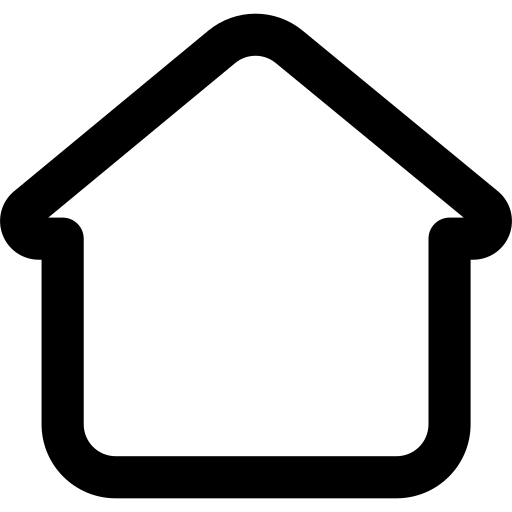
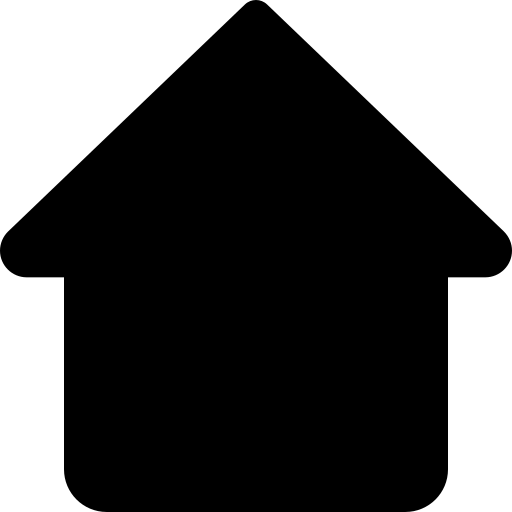
dock added

diff --git a/src/renderer/components/Dock.jsx b/src/renderer/components/Dock.jsx
@@ -3,14 +3,42 @@ import houseIcon from '../../assets/home.png'
 import dictionaryIcon from '../../assets/dictionary.png'
 import treeIcon from '../../assets/decision-tree-image.png'
 import cenarioIcon from '../../assets/cenario.png'
+import { useNavigate } from "react-router-dom";
 
 function Dock() {
+  const navigate = useNavigate();
+
+  const handleClickDock = () => {
+    console.log("asd")
+    navigate(`/dictionary`);
+  };
+
   return (
-    <div className='flex flex-row justify-around absolute bottom-0 z-50 left-1/2 transform -translate-x-1/2 -translate-y-1/2 right- w-[20%] h-[8%] bg-background-green-200 rounded-lg p-2 border items-center'>
-        <img src={houseIcon} alt="" className='w-10 h-10 p-2 hover:bg-background-green-400 duration-100 ease-in rounded-lg cursor-pointer'/>
-        <img src={dictionaryIcon} alt="" className='w-10 h-10 p-2 hover:bg-background-green-400 duration-100 ease-in rounded-lg cursor-pointer'/>
-        <img src={treeIcon} alt="" className='w-10 h-10 p-2 hover:bg-background-green-400 duration-100 ease-in rounded-lg cursor-pointer'/>
-        <img src={cenarioIcon} alt="" className='w-10 h-10 p-2 hover:bg-background-green-400 duration-100 ease-in rounded-lg cursor-pointer'/>
+    <div className='flex flex-row justify-around absolute bottom-0 z-50 left-1/2 transform -translate-x-1/2 -translate-y-1/2 right- w-[17%] h-[8%] bg-background-green-200 rounded-lg p-2 border items-center'>
+        <div
+        className='w-10 h-10 p-2 hover:bg-background-green-400 duration-100 ease-in rounded-lg cursor-pointer'
+        onClick={handleClickDock}>
+          <img src={houseIcon} alt=""/>
+        </div>
+        
+        <div 
+        className='w-10 h-10 p-2 hover:bg-background-green-400 duration-100 ease-in rounded-lg cursor-pointer'
+        onClick={handleClickDock}>
+          <img src={dictionaryIcon} alt="" />
+        </div>
+        
+        <div 
+        className='w-10 h-10 p-2 hover:bg-background-green-400 duration-100 ease-in rounded-lg cursor-pointer'
+        onClick={handleClickDock}>
+          <img src={treeIcon} alt="" />
+        </div>
+        
+        <div
+        className='w-10 h-10 p-2 hover:bg-background-green-400 duration-100 ease-in rounded-lg cursor-pointer'
+        onClick={handleClickDock}>
+          <img src={cenarioIcon} alt=""/>
+        </div>
+        
     </div>
   )
 }

diff --git a/src/renderer/components/homePageComponents/Sidebar.tsx b/src/renderer/components/homePageComponents/Sidebar.tsx
@@ -2,27 +2,42 @@ import React, { useEffect, useState } from 'react'
 import User from './User' 
 import deleteIcon from '../../../assets/delete.png'
 import addIcon from '../../../assets/add-symbol-2.png'
+import homeIcon from '../../../assets/home.png'
 
 function Sidebar() {
   const [deleteSelected, setDeleteSelected] = useState(false)
   const [addSelected, setAddSelected] = useState(false)
+  const [homeSelected, setHomeSelected] = useState(false)
 
   const handleActive = (actionSelected: string) => {
     switch(actionSelected) {
       case 'delete':   
-        console.log('delete')
         setDeleteSelected(!deleteSelected);
         setAddSelected(false)
+        setHomeSelected(false)
         break;
       case 'add':
         setAddSelected(!addSelected);
         setDeleteSelected(false)
+        setHomeSelected(false)
         break;
+      case 'home': 
+        setHomeSelected(!homeSelected);
+        setAddSelected(false)
+        setDeleteSelected(false)
     }
   }
 
   return (
     <div className='relative flex flex-col w-full h-[90%] py-4'>
+        {/* Home */}
+        <div 
+        className={`flex flex-row w-full h-10 mb-3 text-sm rounded-lg ${homeSelected ? 'bg-background-green-200 shadow-xl' : 'bg-opacity-0 hover:bg-opacity-15 hover:bg-white'} items-center duration-100 ease-in  cursor-pointer`}
+        onClick={() => {handleActive('home')}}>
+          <img src={homeIcon} alt="" className='self-center object-cover p-2 h-full invert' />
+          <p className='text font-rubik-semibold font-semibold tracking-normal text-white'>Home</p>
+        </div>
+
         {/* Create a new project */}
         <div 
         className={`flex flex-row w-full h-10 mb-3 text-sm rounded-lg ${addSelected ? 'bg-background-green-200 shadow-xl' : 'bg-opacity-0 hover:bg-opacity-15 hover:bg-white'} items-center duration-100 ease-in  cursor-pointer`}

diff --git a/src/app.tsx b/src/app.tsx
@@ -1,14 +1,16 @@
 import React from "react";
 import { HashRouter  as Router, Routes, Route } from "react-router-dom";
 import Home from "./renderer/pages/Home";
-import TreeView from "./renderer/pages/TreePage";
+import Dictionary from "./renderer/pages/Dictionary";
+import TreePage from "./renderer/pages/TreePage";
 
 function App() {
   return (
     <Router>
       <Routes>
         <Route path="/" element={<Home />} />
-        <Route path="/tree-view/:treeId" element={<TreeView />} /> 
+        <Route path="/tree-view/:treeId" element={<TreePage />} /> 
+        <Route path="/dictionary" element={<Dictionary />}/>
       </Routes>
     </Router>
   );

diff --git a/src/renderer/pages/Dictionary.jsx b/src/renderer/pages/Dictionary.jsx
@@ -1,0 +1,10 @@
+import React from 'react'
+
+function Dictionary() {
+    
+  return (
+    <div>Dictionary</div>
+  )
+}
+
+export default Dictionary
